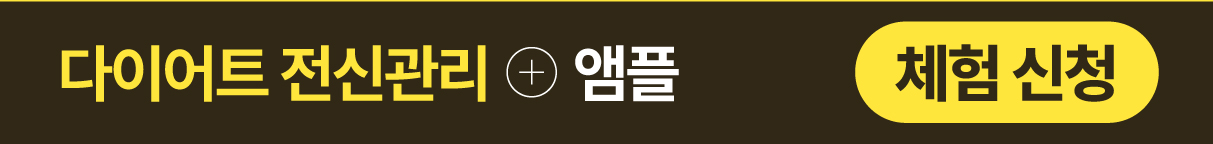
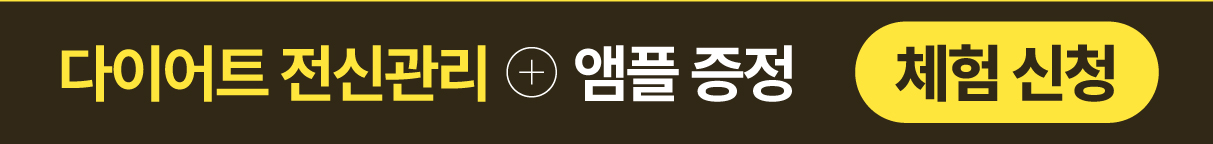
.

Changed region(s): [[0.5491, 0.3056, 0.6711, 0.7222]]

diff --git a/template/genobody/geno_05(1기 삭제).html b/template/genobody/geno_05(1기 삭제).html
@@ -61,7 +61,7 @@
                             <img class="com_img sa sa-up" src="https://winawork.github.io/images/geno/2512/2601_geno_02.jpg"> 
 
                             <div class="back_con light">
-                                <img class="com_img sa sa-up" src="https://winawork.github.io/images/geno/2026/open_nn_01.jpg"> 
+                                <img class="com_img sa sa-up" src="https://winawork.github.io/images/geno/2026/open_nn_01.jpg">
                                 <!-- <img class="com_img sa sa-up" src="https://winawork.github.io/images/geno/2512/geno_1222_01.jpg">  -->
                                 <img class="com_img sa sa-up" src="https://winawork.github.io/images/geno/2026/geno_260511_06.jpg"> 
                                 <img class="com_img sa sa-up" src="https://winawork.github.io/images/geno/2026/geno_260511_01.jpg"> 
@@ -72,14 +72,16 @@
                                 <img class="com_img sa sa-up" src="https://winawork.github.io/images/geno/2026/geno_260511_04.jpg"> 
                                 <img class="com_img sa sa-up" src="https://winawork.github.io/images/geno/2026/geno_260511_05.jpg"> 
                                 <img class="com_img sa sa-up" src="https://winawork.github.io/images/geno/geno_0924_29.jpg"> 
-                                <img class="com_img sa sa-up" src="https://winawork.github.io/images/geno/2026/open_nn_02.jpg">  
+
+                                <!-- 혜택 타이틀 -->
+                                <img class="com_img sa sa-up" src="https://winawork.github.io/images/geno/geno_0924_03.jpg">  
                             </div>            
                                 
                             <!-- 혜택 -->
                             <div class="back_con dark">
                                 <img class="com_img sa sa-up" src="https://winawork.github.io/images/geno/2512/geno_1222_05.jpg">
                                 <img class="com_img sa sa-up" src="https://winawork.github.io/images/geno/geno_0924_05.jpg">          
-                                <img class="com_img sa sa-up" src="https://winawork.github.io/images/geno/2512/geno_1222_06.jpg">
+                                <img class="com_img sa sa-up" src="https://winawork.github.io/images/geno/2026/open_nn_02.jpg">
                             </div>
                                 
                             <img class="com_img sa sa-up" src="https://winawork.github.io/images/geno/2026/open_nn_03.jpg">    